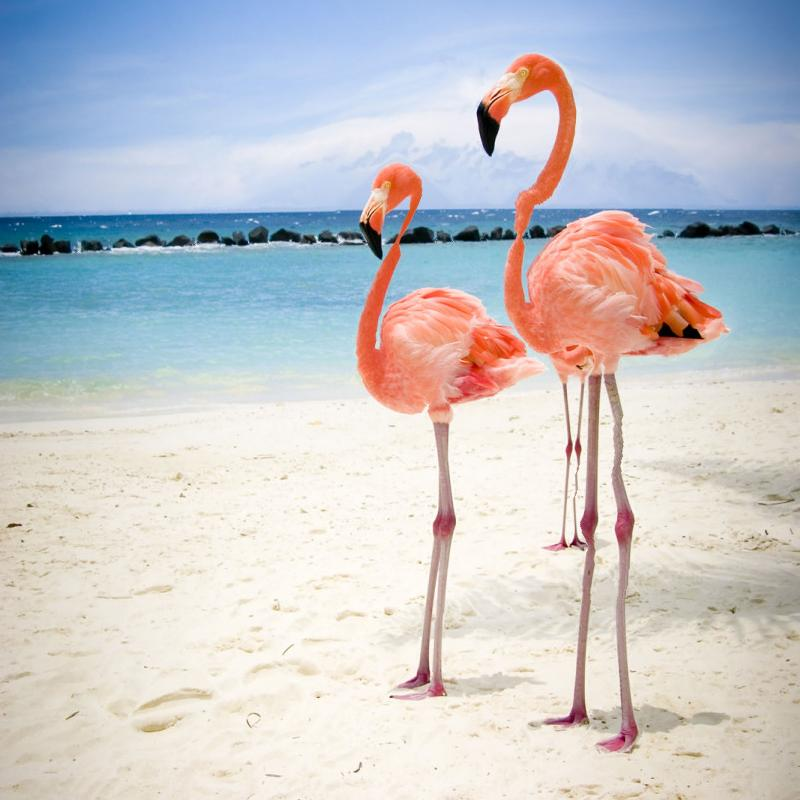
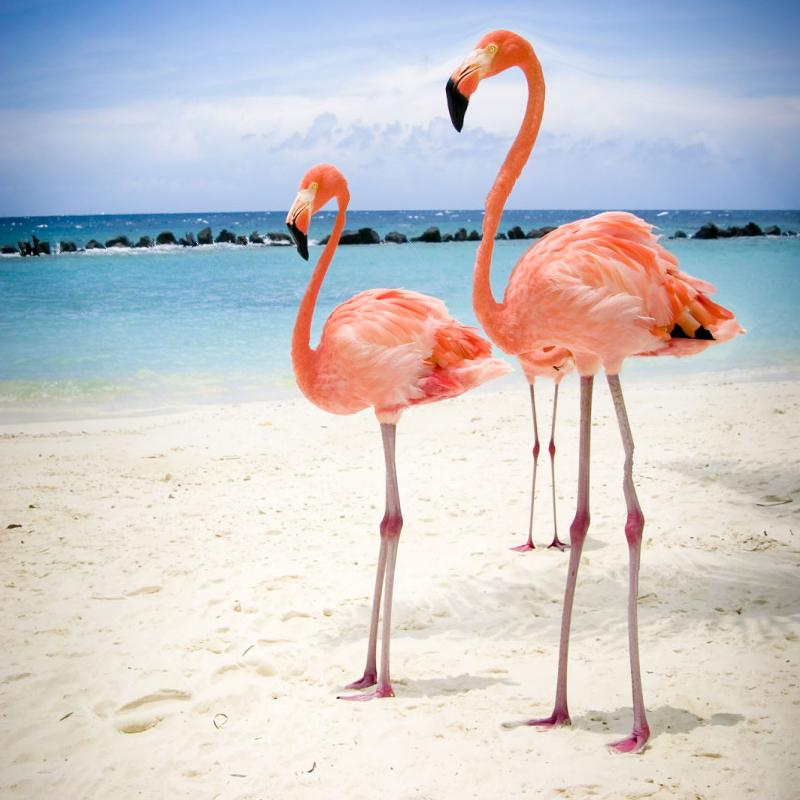
pics and submission pic generator

diff --git a/SeamImage.java b/SeamImage.java
@@ -6,11 +6,11 @@ import java.util.stream.IntStream;
 import javax.imageio.ImageIO;
 
 public class SeamImage {
-	private static final double ENTROPY_WEIGHT = -0.01;
+	private static final double ENTROPY_WEIGHT = 100;
 	private static final double EDGES_WEIGHT = 6;
-	private static final boolean FILL_ENLARGE = true;
+	private static final boolean FILL_ENLARGE = false;
 	private static final int NUMBER_OF_CORES = Runtime.getRuntime().availableProcessors();
-	private static final int INSERTED_SEAM_COLOR = 0x7f6464;
+	private static final int INSERTED_SEAM_COLOR = 0xff0000; // 0x7f6464; red = #ff0000
 	private BufferedImage Image;
 	private double[][] edgeAndEntropyMatrix, entropyMatrix;
 	private int[][] edgeMatrix, grayscaleMatrix, grayscale9X9BlurMatrix;
@@ -276,6 +276,7 @@ public class SeamImage {
 		} else {
 			return INSERTED_SEAM_COLOR;
 		}
+//		return leftPixel; // TODO return to normal..
 	}
 
 	// seam functions:
@@ -297,7 +298,7 @@ public class SeamImage {
 		// insert new seams
 		for (int i = 0; i < k; i++) {
 			for (int row = 0; row < resMatrix.length; row++) {
-				resMatrix[row][kMinSeams[i][row]] = -1;
+				resMatrix[row][kMinSeams[i][row]] = -1;  
 			}
 		}
 
